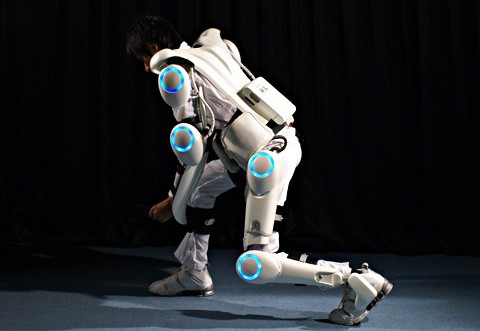
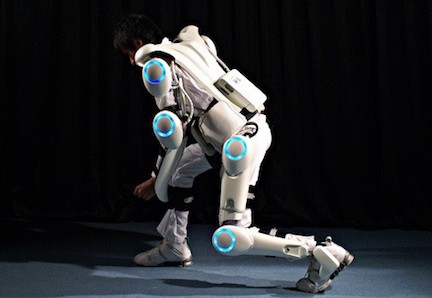
resize pics

diff --git a/checkpoint2/css/style.css b/checkpoint2/css/style.css
@@ -3,7 +3,11 @@ body {
   font-family: Arial, Helvetica, sans-serif;
 }
 
-Main {
+header {
+  grid-area: header;
+}
+
+main {
   width: 100%;
   height: 350px;
   background-image:url("../images/Artificial-Intelligence.jpg");
@@ -13,6 +17,7 @@ Main {
   color: white;
   font-size: 28px;
   text-shadow: grey 2px;
+  grid-area: main;
 
 }
 .symbols {
@@ -23,18 +28,45 @@ Main {
   width: 100%;
   background-color: #333;
   padding-top: 20px;
-
+  margin-bottom: 20px;
+  grid-area: symbols;
 }
 
-.mainwords {
-  padding-top: 90px;
+
+
+.exosuit {
   display: flex;
-  margin-left: 50%;
+  flex-direction: column;
+  align-items: center;
+  font-size: 30px;
+  width: 100%;
+  padding-top: 20px;
+  grid-area: exosuit;
 }
 
-.text {
-  margin-top: 20px;
+.futuretech {
+  color: silver;
+  font-size: 40px;
+  font-weight: bold;
+  text-align: center;
+  width: 100%;
+  background-color: #333;
+  padding-top: 20px;
+  padding-bottom: 20px;
+  margin-bottom: 20px;
+  grid-area: futuretech;
 }
+
+.skynet {
+  display: flex;
+  align-items: center;
+  flex-direction: column;
+  text-align: center;
+  padding-bottom: 15px;
+  grid-area: skynet;
+}
+
+/* end grid area settings */
 
 /* Top navbar settings below*/
 .topnav {
@@ -78,29 +110,34 @@ Main {
     padding-bottom: 20px;
   }
 
-  .skynet {
-    display: flex;
-    align-items: center;
-    flex-direction: column;
-    text-align: center;
-    padding-bottom: 15px;
-
-  }
 p {
 font-size: 40px;
 color: red;}
 
+.mainwords {
+  padding-top: 90px;
+  display: flex;
+  margin-left: 50%;
+}
+
+.text {
+  margin-top: 20px;
+}
+
 /* Gallery instructions */
-.picbox {
+.picbox1 {
   display: flex;
   flex-direction: column;
   width: 100%;
 }
-
+.picbox2 {
+  display: flex;
+  flex-direction: column;
+  width: 100%;
+}
 div.gallery {
     margin: 5px;
     border: 1px solid lightgrey;
-  
     width: 100%;
     height: auto;
 }
@@ -118,7 +155,7 @@ div.desc {
     padding: 15px;
     text-align: center;
 }
-
+/* Gallery End */
 /* media links formatiing */
 
 .smedia {
@@ -143,14 +180,7 @@ div.desc {
 
 }
 
-
-
-
-
-
-
-
-
+/* topnav media instructions */
 
 @media screen and (max-width: 600px) {
   .topnav a:not(:first-child) {display: none;}
@@ -171,4 +201,30 @@ div.desc {
     float: none;
     display: block;
     text-align: left;
+  }
+
+  /* Extra Small and up */
+
+  /* Small and up (Phones) */
+  @media (min-width: 576px) {
+
+
+
+
+  }
+
+  /* Medium and up (Tablets) */
+  @media (min-width: 768px) {
+
+  }
+
+  /* Large and up (Desktops) */
+  @media (min-width: 992px) {
+
+
+
+  }
+  /* Extra Large and up (Wide Screen Desktops) */
+  @media (min-width: 1200px) {
+
   }

diff --git a/checkpoint2/index.html b/checkpoint2/index.html
@@ -65,7 +65,7 @@ function myFunction() {
      </div>
    </section>
 
-   <section class="picbox">
+   <section class="picbox1">
      <div class="gallery">
   <a target="_blank" href="autonomous.jpg">
     <img src="./images/autonomous.jpg" alt="Drone">
@@ -79,7 +79,9 @@ function myFunction() {
   </a>
   <div class="desc">Next Generation Warfare</div>
 </div>
+</section>
 
+<section class="picbox2">
 <div class="gallery">
   <a target="_blank" href="logistics.jpg">
     <img src="./images/logistics.jpg" alt="Logistics and Design">
@@ -94,12 +96,17 @@ function myFunction() {
   <div class="desc">Battlefield Supremacy</div>
 </div>
 
-<div class="gallery">
-  <a target="_blank" href="careers.jpg">
-    <img src="./images/careers.jpg" alt="Office Scene">
-  </a>
-  <div class="desc">Careers with Unlimited Potential</div>
-</div>
+
+   </section>
+
+   <div class="futuretech">
+     Future Tech
+
+   </div>
+
+   <section class="exosuit">
+     <h1>Groundbreaking Exosuit Technology <br><br></h1>
+     <img src="./images/exosuit.jpg" alt="Exoskeleton Suit">
 
    </section>
 
@@ -142,6 +149,9 @@ function myFunction() {
         </script>
 
         <img src="./images/skynet.jpg"></img>
+
+    </section>
+
 
     </section>
 
